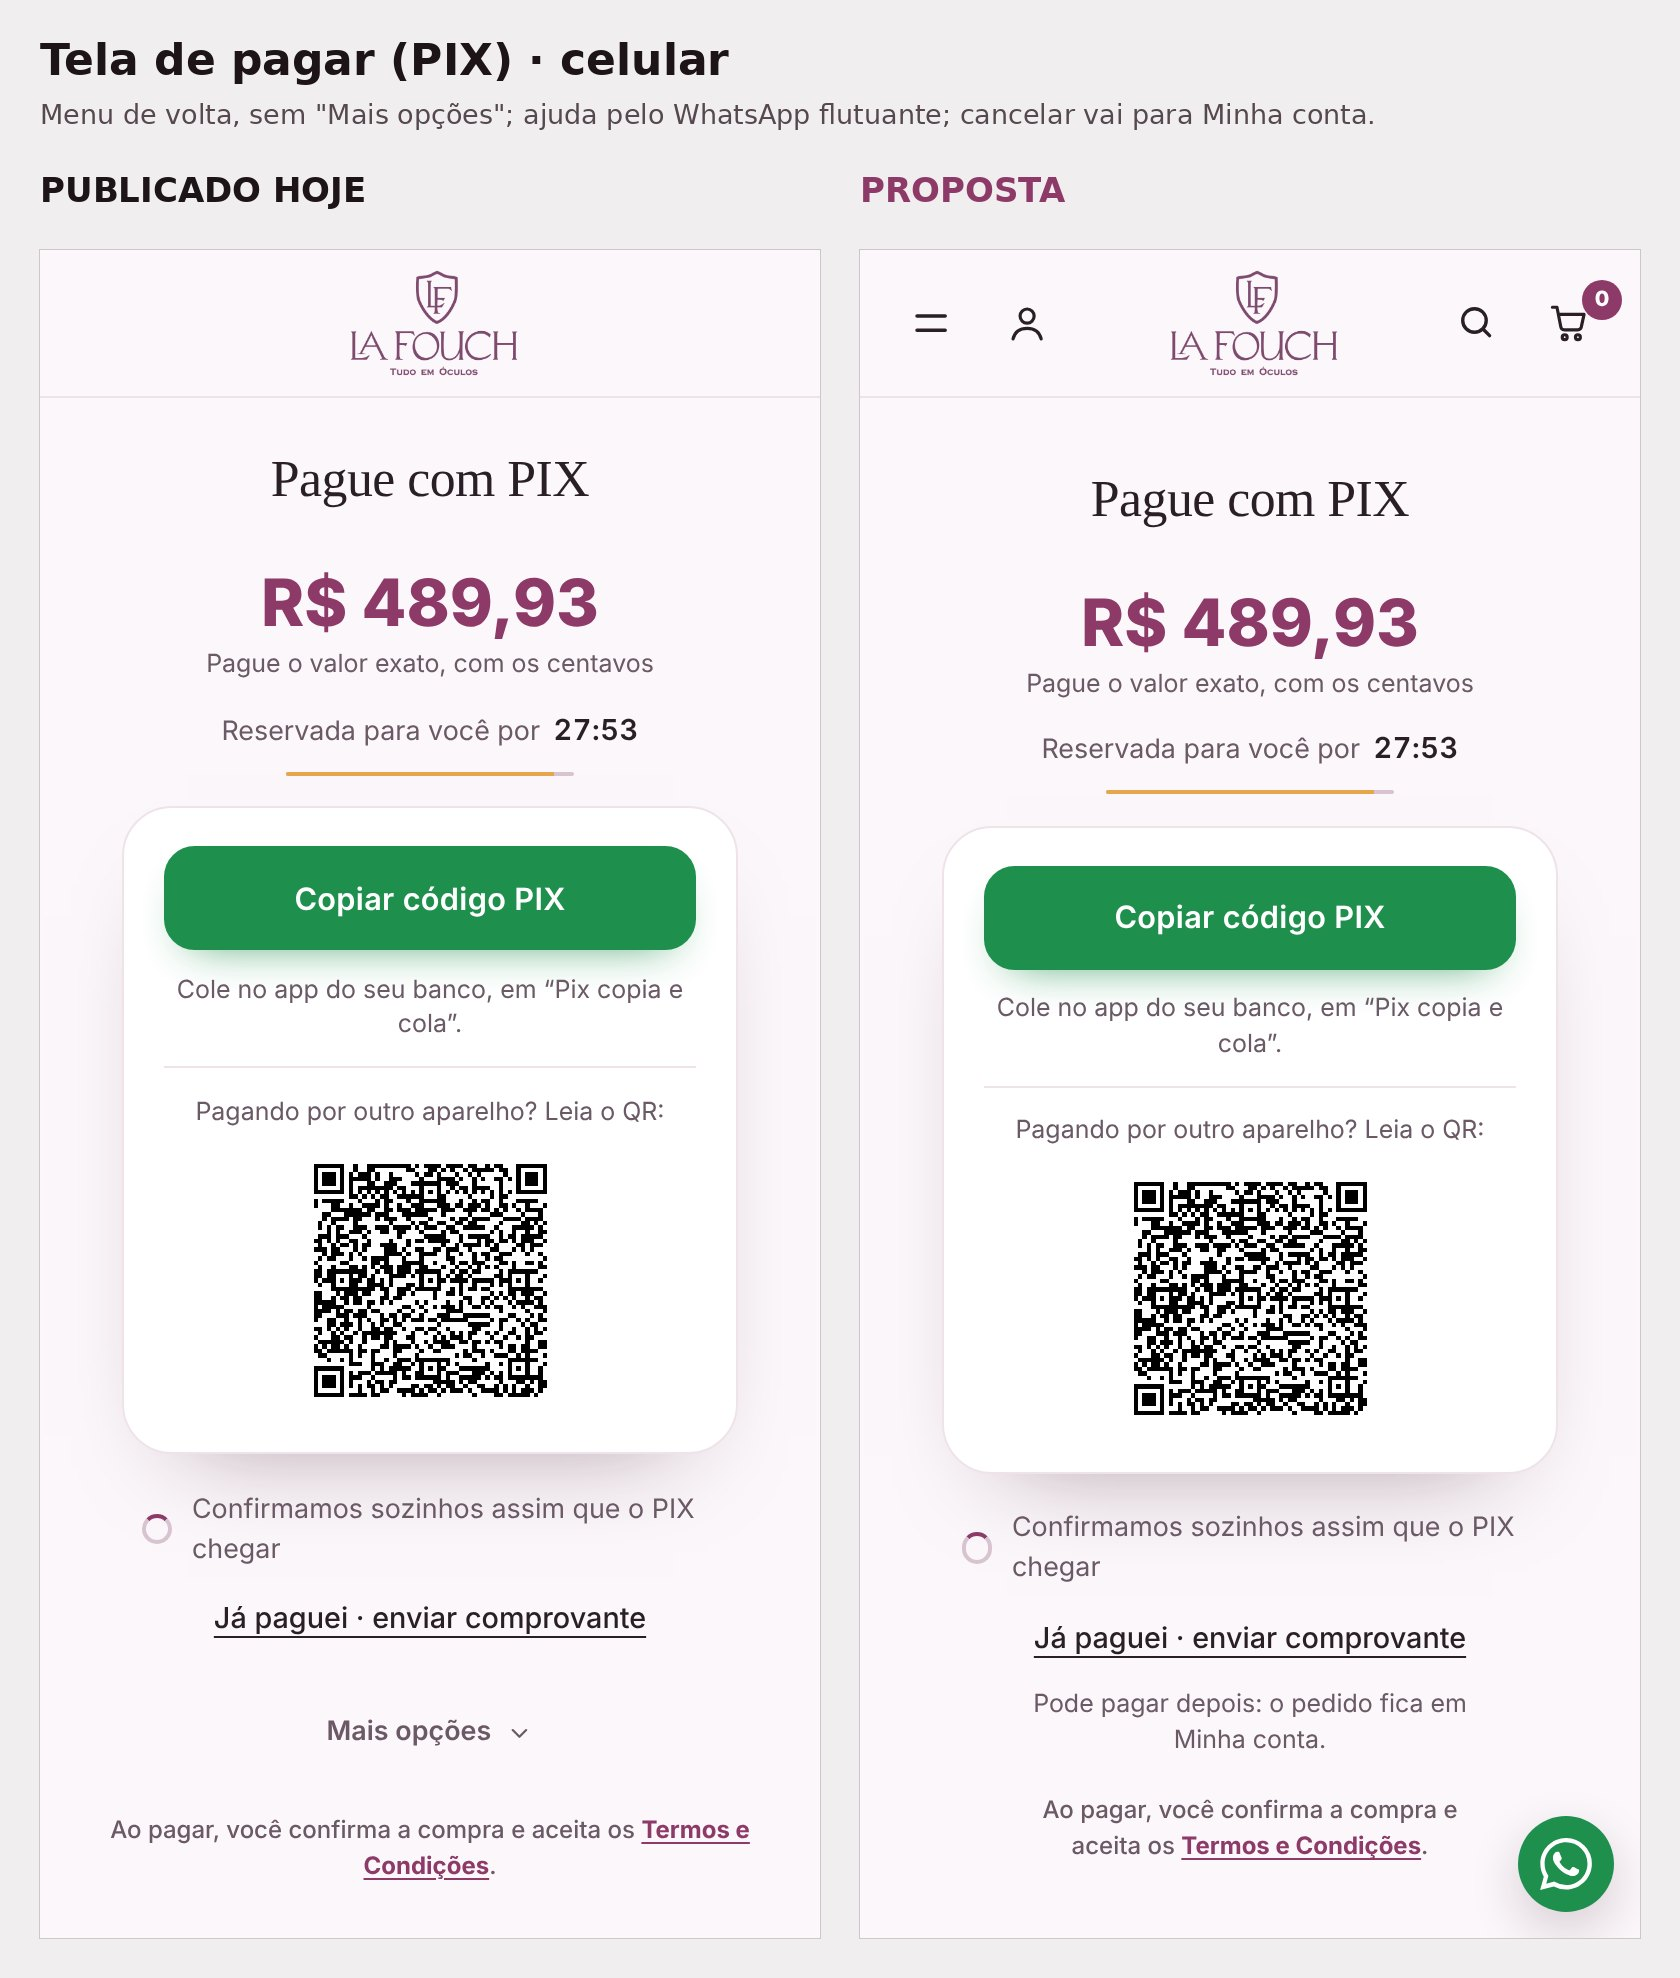
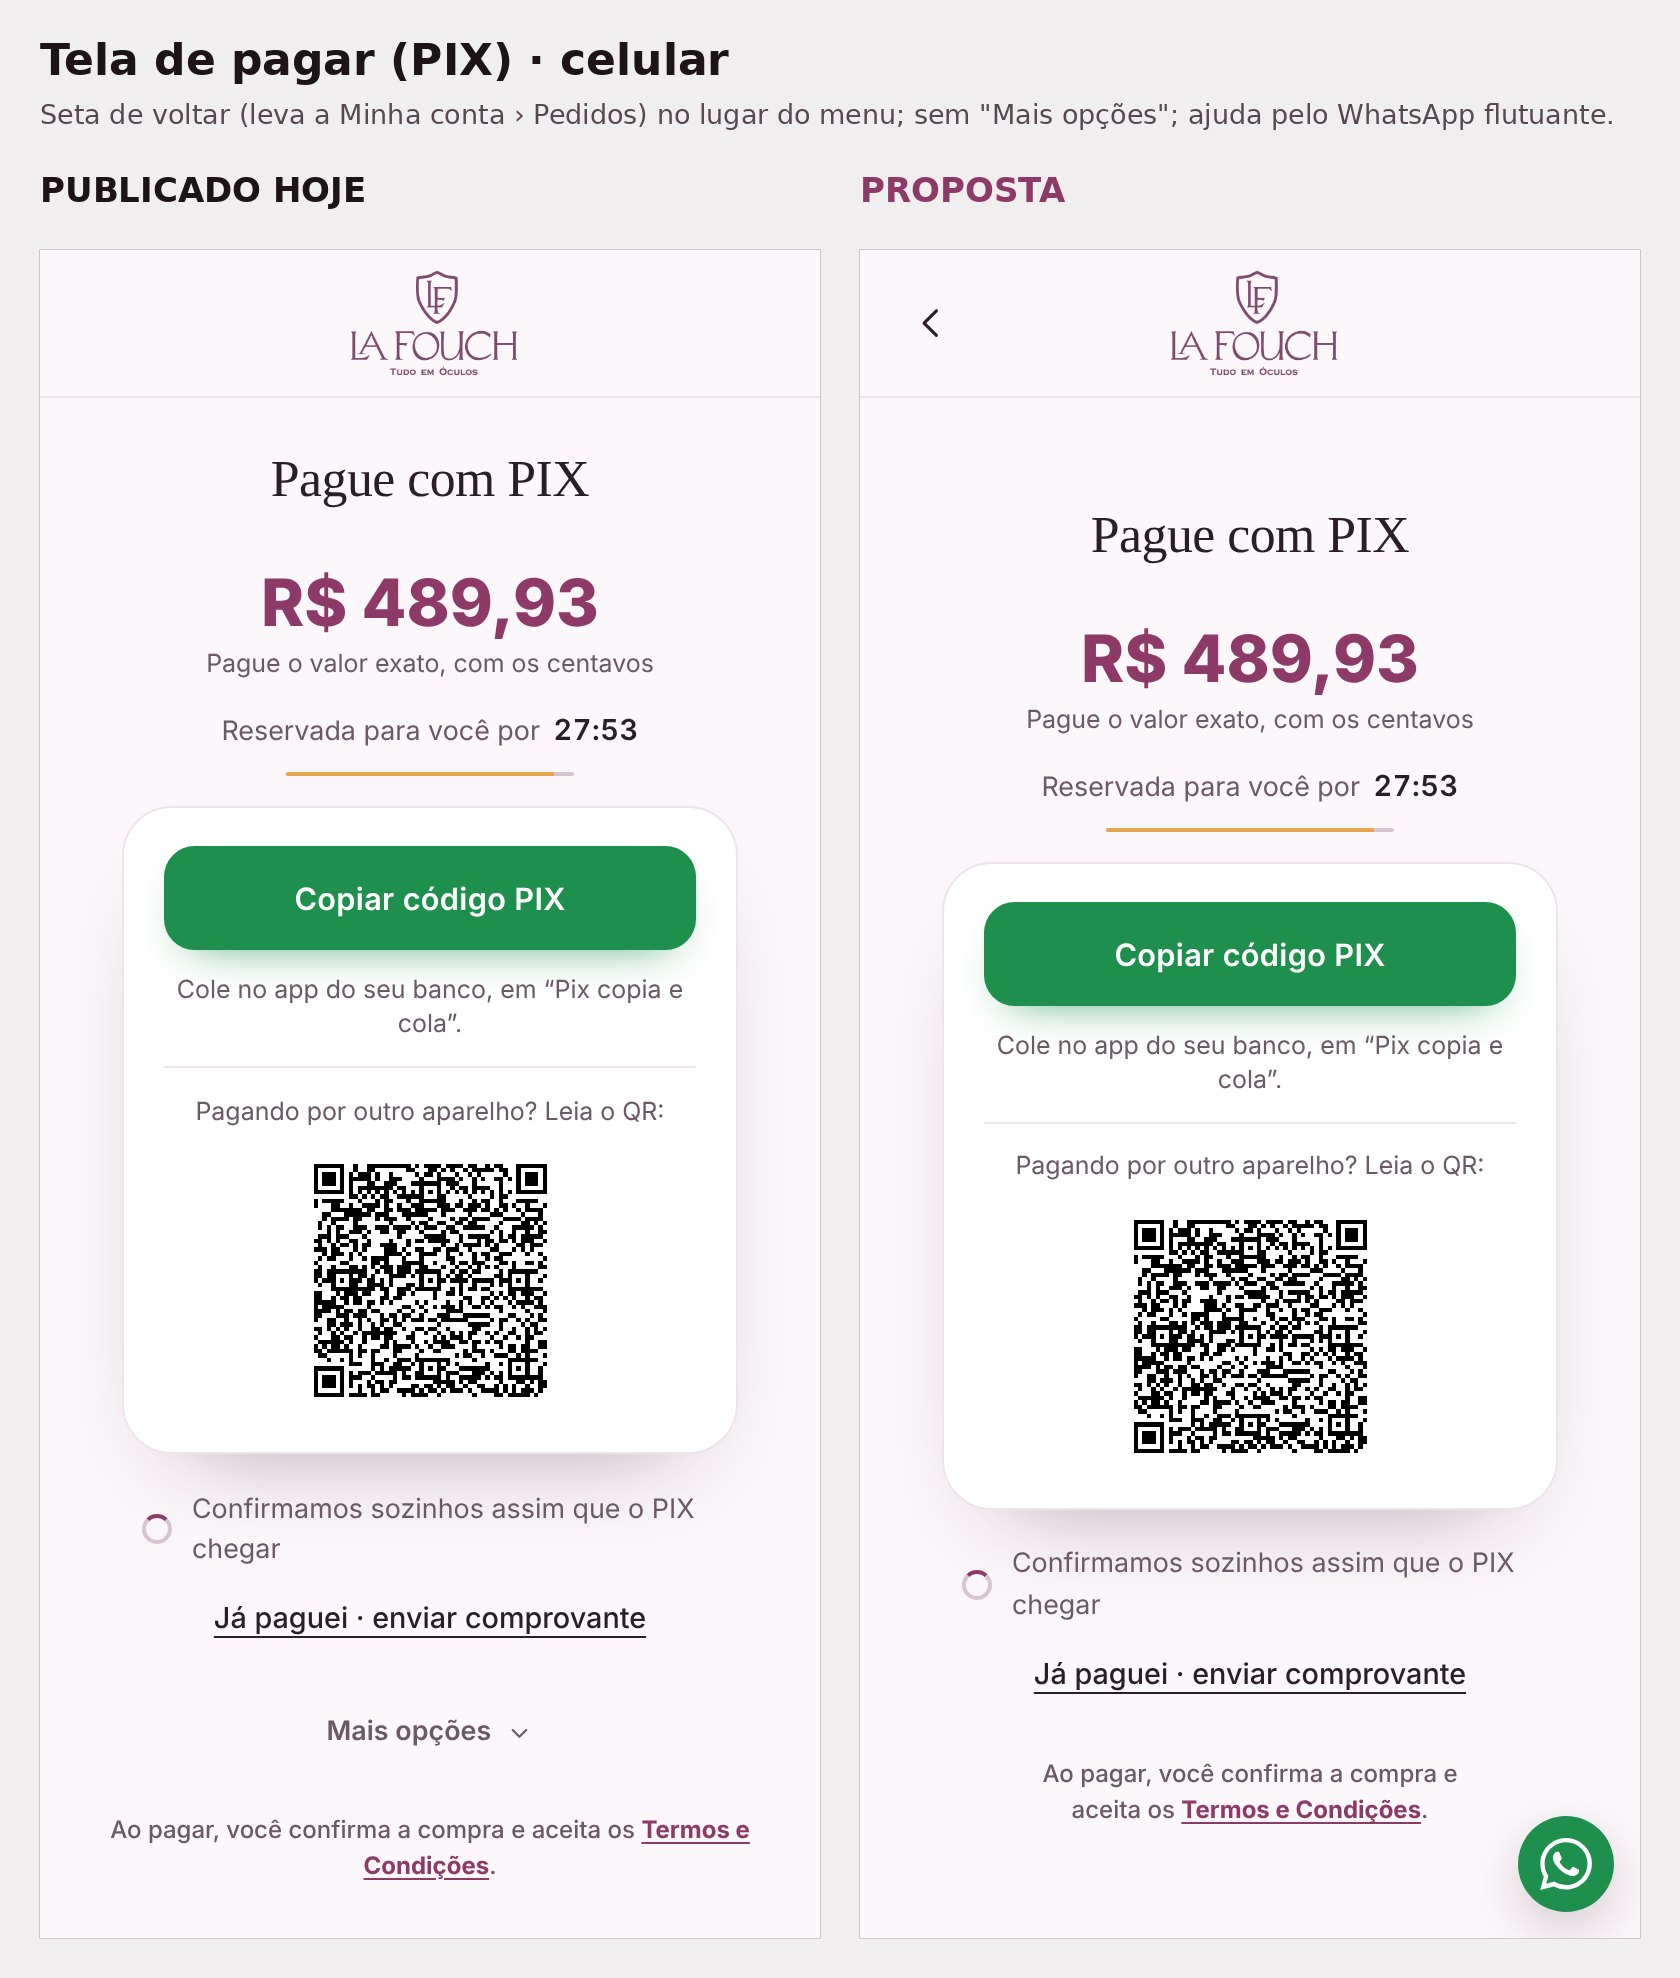
S314b: esboço com seta de voltar e cartão do pedido no padrão de luxo
Claude-Session: https://claude.ai/code/session_01Vj5GPR2QjandaFr6ascRKC

diff --git a/work/s314/esb.py b/work/s314/esb.py
@@ -5,15 +5,19 @@ from PIL import Image,ImageDraw,ImageFont
 OUT='/home/claude/lafouch/work/s314/';T='/tmp/s314/'
 F=lambda s,bd=False:ImageFont.truetype('/usr/share/fonts/truetype/dejavu/DejaVuSans%s.ttf'%('-Bold' if bd else ''),s)
 OLHO=open('/home/claude/lafouch/work/kit/olho.js').read()
-PAGAR="""()=>{const st=document.createElement('style');st.textContent='body:has(#pkok.py) .top :is(#mnb,#contabtn,#sbtn,#bagbtn){visibility:visible!important}body:has(#pkok.py) a.wa{z-index:10001!important}#pkok.py .tm{max-width:236px;margin-left:auto;margin-right:auto}';document.head.appendChild(st);
+PAGAR="""()=>{const st=document.createElement('style');st.textContent='body:has(#pkok.py) .top #mnb{visibility:visible!important}body:has(#pkok.py) a.wa{z-index:10001!important}#pkok.py .tm{max-width:236px;margin-left:auto;margin-right:auto}';document.head.appendChild(st);
   document.documentElement.classList.remove('wamin');const o=document.getElementById('pkok');o.querySelector('.pyX').remove();
-  const p=document.createElement('p');p.className='pyh';p.style.cssText='margin:2px auto 0;max-width:236px';p.textContent='Pode pagar depois: o pedido fica em Minha conta.';o.querySelector('#pgcl').after(p);return 'ok'}"""
+  const m=document.getElementById('mnb');m.setAttribute('aria-label','Voltar para Minha conta');m.innerHTML='<svg width="22" height="22" viewBox="0 0 24 24" fill="none" stroke="currentColor" stroke-width="1.8" stroke-linecap="round" stroke-linejoin="round" aria-hidden="true"><path d="M15 5l-7 7 7 7"/></svg>';return 'ok'}"""
+# Minha conta no padrão de luxo aprovado: uma ação cheia (.pyP), contagem calma numa linha com fio, o resto em link fino na cor da tela (.pyL.s) — nada de vermelho sublinhado
 CONTA="""()=>{const b=document.querySelector('[data-id=kitped1]');if(!b)return 'sem cartão';const g=getComputedStyle(b);
-  const d=document.createElement('div');d.className=b.className;d.style.cssText='display:block;text-align:left;cursor:default;padding:'+g.padding+';width:100%;box-sizing:border-box';
+  const st=document.createElement('style');st.textContent='.s14P{display:flex;align-items:center;justify-content:center;width:100%;min-height:52px;margin:0;padding:0 18px;border:0;border-radius:16px;background:#1f8f4e;color:#fff;font:600 16px Inter,system-ui,sans-serif;letter-spacing:.01em;box-shadow:0 10px 24px -14px rgba(31,143,78,.9);cursor:pointer;box-sizing:border-box}.s14L{display:flex;align-items:center;justify-content:center;min-height:48px;margin:2px auto 0;padding:0 12px;background:none;border:0;color:var(--mu);font:500 14px Inter,system-ui,sans-serif;text-decoration:underline;text-decoration-thickness:1px;text-underline-offset:4px;cursor:pointer}.s14T{display:flex;flex-wrap:wrap;align-items:baseline;justify-content:center;gap:0 7px;margin:18px auto 16px}.s14T small{font-size:14px;color:var(--mu)}.s14T b{font-size:15px;font-weight:600;letter-spacing:.02em;font-variant-numeric:tabular-nums;color:var(--tx)}.s14T i{flex:0 0 100%;display:block;height:2px;max-width:150px;margin:10px auto 0;border-radius:2px;background:linear-gradient(90deg,#e6a64c 93%,var(--ln2) 93%)}';document.head.appendChild(st);
+  const d=document.createElement('div');d.className=b.className;d.style.cssText='display:block;text-align:left;cursor:default;width:100%;box-sizing:border-box;padding:20px 20px 10px;border-radius:22px';
   const topo=document.createElement('div');topo.style.cssText='display:flex;align-items:center;justify-content:space-between;gap:12px';while(b.firstChild)topo.appendChild(b.firstChild);
-  const ac=document.createElement('div');ac.style.cssText='display:flex;align-items:center;justify-content:space-between;margin-top:12px;padding-top:4px;border-top:1px solid var(--ln)';
-  ac.innerHTML='<button type="button" style="min-height:46px;padding:0 2px;background:none;border:0;color:var(--ac);font:700 14.5px Inter,system-ui,sans-serif;cursor:pointer">Pagar agora ›</button><button type="button" style="min-height:46px;padding:0 2px;background:none;border:0;color:#c0392b;font:600 14px Inter,system-ui,sans-serif;text-decoration:underline;text-underline-offset:3px;cursor:pointer">Cancelar pedido</button>';
-  d.append(topo,ac);b.replaceWith(d);return 'ok'}"""
+  const sm=topo.querySelector('small');if(sm)sm.innerHTML='14/11/2026 · PIX<br>R$&nbsp;489,93';
+  const t=document.createElement('div');t.className='s14T';t.innerHTML='<small>Reservada para você por</small><b>27:51</b><i></i>';
+  const p=document.createElement('button');p.type='button';p.className='s14P';p.textContent='Pagar agora';
+  const c=document.createElement('button');c.type='button';c.className='s14L';c.textContent='Cancelar pedido';
+  d.append(topo,t,p,c);b.replaceWith(d);return 'ok'}"""
 def olho(pg,w,sel):
     r=set()
     for rola in (0,1):
@@ -38,7 +42,7 @@ def prancha(nome,titulo,sub,cols):
         x=g+i*(w+g);d.text((x,170),r,font=F(34,True),fill='#8d3a69' if i else '#1d1418');S.paste(im,(x,top));d.rectangle([x-1,top-1,x+w,top+h],outline='#cfc6cb')
     S.save(OUT+nome,quality=86);print(' ',nome)
 with sync_playwright() as pw:
-    for qual,nome,tit,sub in (('pagar','1-pagar.jpg','Tela de pagar (PIX) · celular','Menu de volta, sem "Mais opções"; ajuda pelo WhatsApp flutuante; cancelar vai para Minha conta.'),
-                              ('conta','2-minha-conta-pedidos.jpg','Minha conta › Pedidos · pedido ainda não pago','O pedido que espera pagamento ganha "Pagar agora" e "Cancelar pedido".')):
+    for qual,nome,tit,sub in (('pagar','1-pagar.jpg','Tela de pagar (PIX) · celular','Seta de voltar (leva a Minha conta › Pedidos) no lugar do menu; sem "Mais opções"; ajuda pelo WhatsApp flutuante.'),
+                              ('conta','2-minha-conta-pedidos.jpg','Minha conta › Pedidos · pedido ainda não pago','Padrão de luxo: uma ação cheia (Pagar agora), contagem calma, "Cancelar pedido" em link fino.')):
         a,fa=tela(pw,qual,0);b,fb=tela(pw,qual,1);print(qual,'novas falhas x hoje:',sorted(fb-fa) or 'nenhuma')
         prancha(nome,tit,sub,[(a,'PUBLICADO HOJE'),(b,'PROPOSTA')])

diff --git a/docs/MEMORIA-PROJETO.md b/docs/MEMORIA-PROJETO.md
@@ -2561,3 +2561,4 @@ Decisões do dono sobre a tela Venda confirmada (esboço "venda_confirmada_compr
 - DONO (22:19–22:21): se o menu ficar na tela de pagar, tirar "Pagar depois"; "Falar com um vendedor" só pelo WhatsApp flutuante; e propôs cancelar o pedido não pago em Minha conta. Minha opinião dada: concordo (o pagamento acontece no app do banco, o menu distrai pouco; "Mais opções" só existia para compensar o menu escondido); cancelar em Minha conta é o lugar convencional e tira o convite a desistir do lado do botão de pagar.
 - Esboço (work/s314/esb.py, telas reais, Publicado hoje × Proposta): 1-pagar.jpg (menu de volta; sem "Mais opções"; linha "Pode pagar depois: o pedido fica em Minha conta."; WhatsApp flutuante por cima da tela; textos de baixo mais estreitos para o flutuante não tampar "Termos e Condições") e 2-minha-conta-pedidos.jpg (pedido "Aguardando pagamento" ganha "Pagar agora ›" e "Cancelar pedido").
 - olho.js: conta sem falha nova; pagar acusa só "Armações ← WhatsApp", que é link da página de TRÁS da tela (alarme falso). A decidir na implementação: mensagem do flutuante com o número do pedido; o topo volta a fechar a tela de pagar (pedido fica em Minha conta). NADA implementado; o S313 continua publicado.
+- S314b (14/11 22:30): DONO decidiu "botão voltar em vez de menu" (minha opinião: seta de voltar que leva a Minha conta › Pedidos — mantém o foco, saída intencional, cai em cima do pedido). E corrigiu: o esboço do cartão em Minha conta NÃO seguia o padrão de luxo. Refeito (mesmos arquivos em work/s314): pagar = seta ‹ no lugar do ☰ + logo, sem "Mais opções" nem linha extra, WhatsApp flutuante; Minha conta = cartão com mais ar, valor, contagem calma com fio, UMA ação cheia "Pagar agora" e "Cancelar pedido" em link fino na cor da tela (sem vermelho sublinhado). Regra para mim: TODO esboço novo já nasce no padrão de luxo aprovado (uma ação cheia, resto em link fino, contagem calma), sem o dono precisar pedir. Aguardando aprovação; nada implementado.
